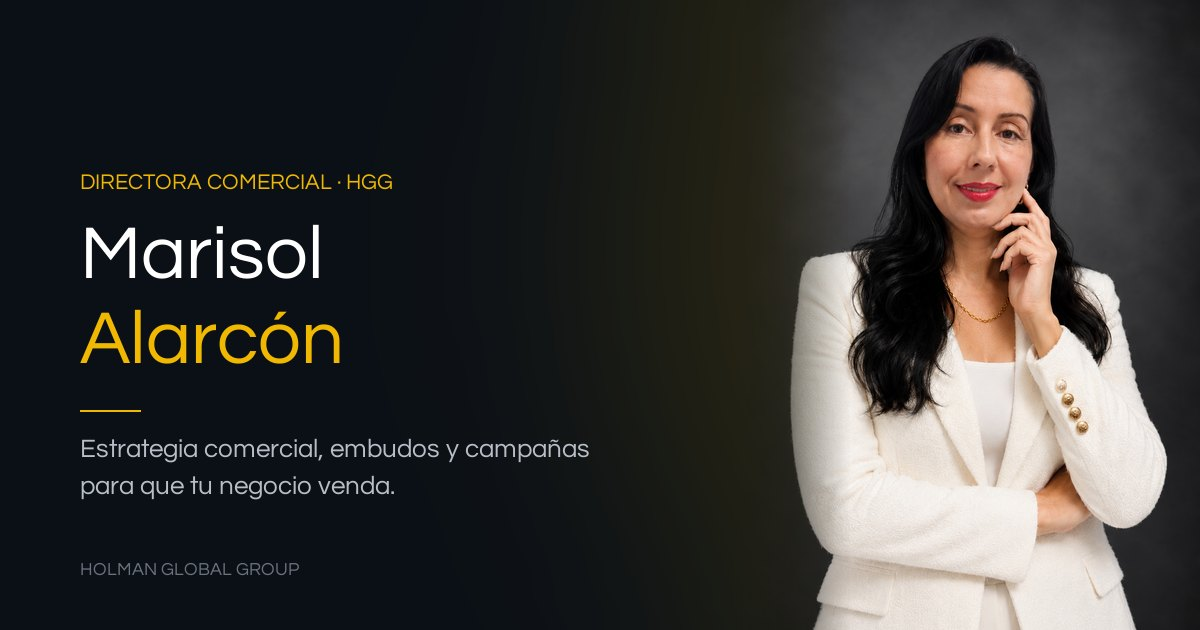
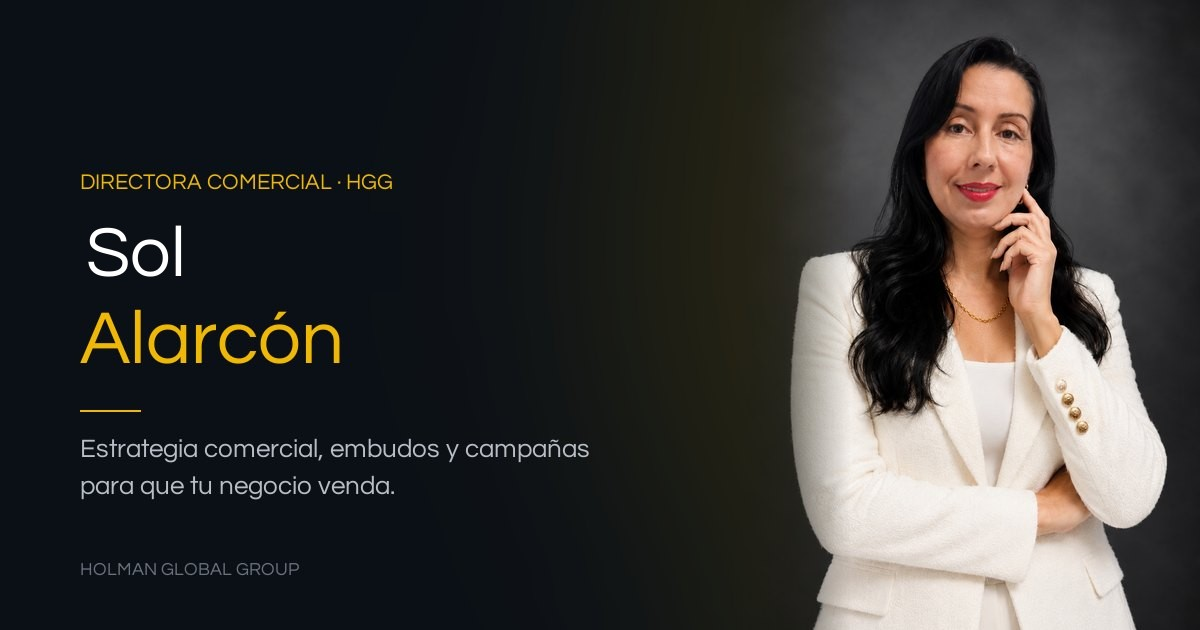
feat(equipo): Sol Alarcón como Directora Comercial; sale Natalia
- Equipo: Sol Alarcón (CCO) entra; Natalia sale. Quedan cuatro.
- Landing /marisol pasa a «Sol Alarcón» (texto, título, SEO e imagen OG).
- /sol redirige a /marisol.
- Con número impar en celular, la última tarjeta queda centrada.

Changed region(s): [[0.0617, 0.3619, 0.2775, 0.4524]]

diff --git a/src/pages/Marisol.tsx b/src/pages/Marisol.tsx
@@ -6,7 +6,7 @@ import { guardarReferido, leerReferido } from "@/lib/referido";
 import { AGENDAR } from "@/lib/routes";
 
 /**
- * `/marisol` — presenta a Maria Soledad Alarcón (Marisol), Directora Comercial
+ * `/marisol` — presenta a Maria Soledad Alarcón (Sol, antes Marisol), Directora Comercial
  * de HGG desde nov 2026, y lleva a la tienda.
  *
  * Quien llega aquí sin código de embajador queda con el de Marisol (ECOS36):
@@ -78,7 +78,7 @@ const ETAPAS = [
 
 const EQUIPO = [
   { quien: "Holman", t: "Claridad y marca", d: "Sesiones uno a uno para definir tu propósito, tu marca y una oferta que se siente tuya." },
-  { quien: "Marisol", t: "Ventas y crecimiento", d: "Landing, embudo, contenido y campañas para que esa oferta llegue a quien la necesita." },
+  { quien: "Sol", t: "Ventas y crecimiento", d: "Landing, embudo, contenido y campañas para que esa oferta llegue a quien la necesita." },
   { quien: "Tú", t: "Vendes", d: "Te enfocas en atender a tus clientes. El sistema trabaja contigo." },
 ];
 
@@ -109,7 +109,7 @@ const Flecha = () => (
 
 export default function Marisol() {
   useEffect(() => {
-    document.title = "Marisol Alarcón · Directora Comercial · Holman Global Group";
+    document.title = "Sol Alarcón · Directora Comercial · Holman Global Group";
     if (!leerReferido()) guardarReferido(CODIGO_MARISOL);
   }, []);
 
@@ -136,12 +136,12 @@ export default function Marisol() {
             <span className="ms-corto">HGG</span>
           </p>
           <h1>
-            Marisol
+            Sol
             <br />
             <span>Alarcón</span>
           </h1>
           <p className="ms-lede">
-            Marisol lidera el área comercial de HGG. Su trabajo es que lo que construyes con nosotros llegue a las personas
+            Sol lidera el área comercial de HGG. Su trabajo es que lo que construyes con nosotros llegue a las personas
             correctas y se convierta en <strong>ventas</strong>: oferta clara, embudo que funciona y campañas que traen
             conversaciones reales.
           </p>
@@ -156,9 +156,9 @@ export default function Marisol() {
         </div>
 
         <figure className="ms-retrato">
-          <img src={FOTO} alt="Marisol Alarcón, Directora Comercial de Holman Global Group" width={800} height={1202} fetchPriority="high" />
+          <img src={FOTO} alt="Sol Alarcón, Directora Comercial de Holman Global Group" width={800} height={1202} fetchPriority="high" />
           <figcaption className="ms-firma">
-            <strong>Marisol</strong>
+            <strong>Sol</strong>
             <span>Ventas · Embudos · Campañas</span>
           </figcaption>
         </figure>

diff --git a/src/components/equipo.tsx b/src/components/equipo.tsx
@@ -10,7 +10,7 @@ type Member = {
   bio: string; // reverso de la tarjeta (aparece al hover)
 };
 
-// Fotos en public/equipo/ (holman.jpg, roger.jpg, alberto.jpg, natalia.jpg).
+// Fotos en public/equipo/ (holman.jpg, roger.jpg, alberto.jpg) y la de Sol en public/marisol/.
 // Si falta una, la cara frontal muestra las iniciales sobre un fondo de marca.
 const TEAM: Member[] = [
   {
@@ -38,12 +38,12 @@ const TEAM: Member[] = [
     bio: "Fue el puente que hizo posible esta alianza. Su rol es pensar en grande, identificar oportunidades estratégicas y asegurar que HGG crezca con visión, solidez y las alianzas correctas.",
   },
   {
-    name: "Natalia Sánchez",
-    position: "CMO",
-    role: "Directora de Marketing",
-    photo: "/equipo/natalia.jpg",
-    initials: "NS",
-    bio: "Lleva la voz de HGG al mundo. Diseña y ejecuta las campañas, gestiona las redes sociales y construye la presencia digital que atrae a las personas correctas hacia la marca.",
+    name: "Sol Alarcón",
+    position: "CCO",
+    role: "Directora Comercial",
+    photo: "/marisol/retrato.webp",
+    initials: "MA",
+    bio: "Lidera el área comercial de HGG. Se encarga de que lo que construimos llegue a las personas correctas y se convierta en ventas: oferta clara, embudos que funcionan y campañas que abren conversaciones reales.",
   },
 ];
 

diff --git a/src/App.tsx b/src/App.tsx
@@ -194,6 +194,7 @@ export default function App() {
         {/* ECOS Academy, oculta mientras se construye (sin enlace, noindex). */}
         <Route path={ACADEMY} element={<Academy />} />
         <Route path="/marisol" element={<Marisol />} />
+        <Route path="/sol" element={<Navigate to="/marisol" replace />} />
         {EcosPreview && <Route path="/ecos/preview/*" element={<EcosPreview />} />}
         {/* Solo en desarrollo: los tests sin login, para revisarlos en local. */}
         {import.meta.env.DEV && <Route path="/dev/test" element={<TestAutodescubrimiento />} />}

diff --git a/src/styles/main.css b/src/styles/main.css
@@ -1410,6 +1410,12 @@ section {
     gap: 20px;
     margin-top: 44px;
   }
+  /* Con un número impar de personas, la última queda centrada. */
+  .equipo-card:last-child:nth-child(odd) {
+    grid-column: 1 / -1;
+    justify-self: center;
+    width: calc(50% - 10px);
+  }
   .equipo-back { padding: 18px 16px; gap: 9px; }
   .equipo-back-name { font-size: 13px; }
   .equipo-bio { font-size: 11px; line-height: 1.5; }
